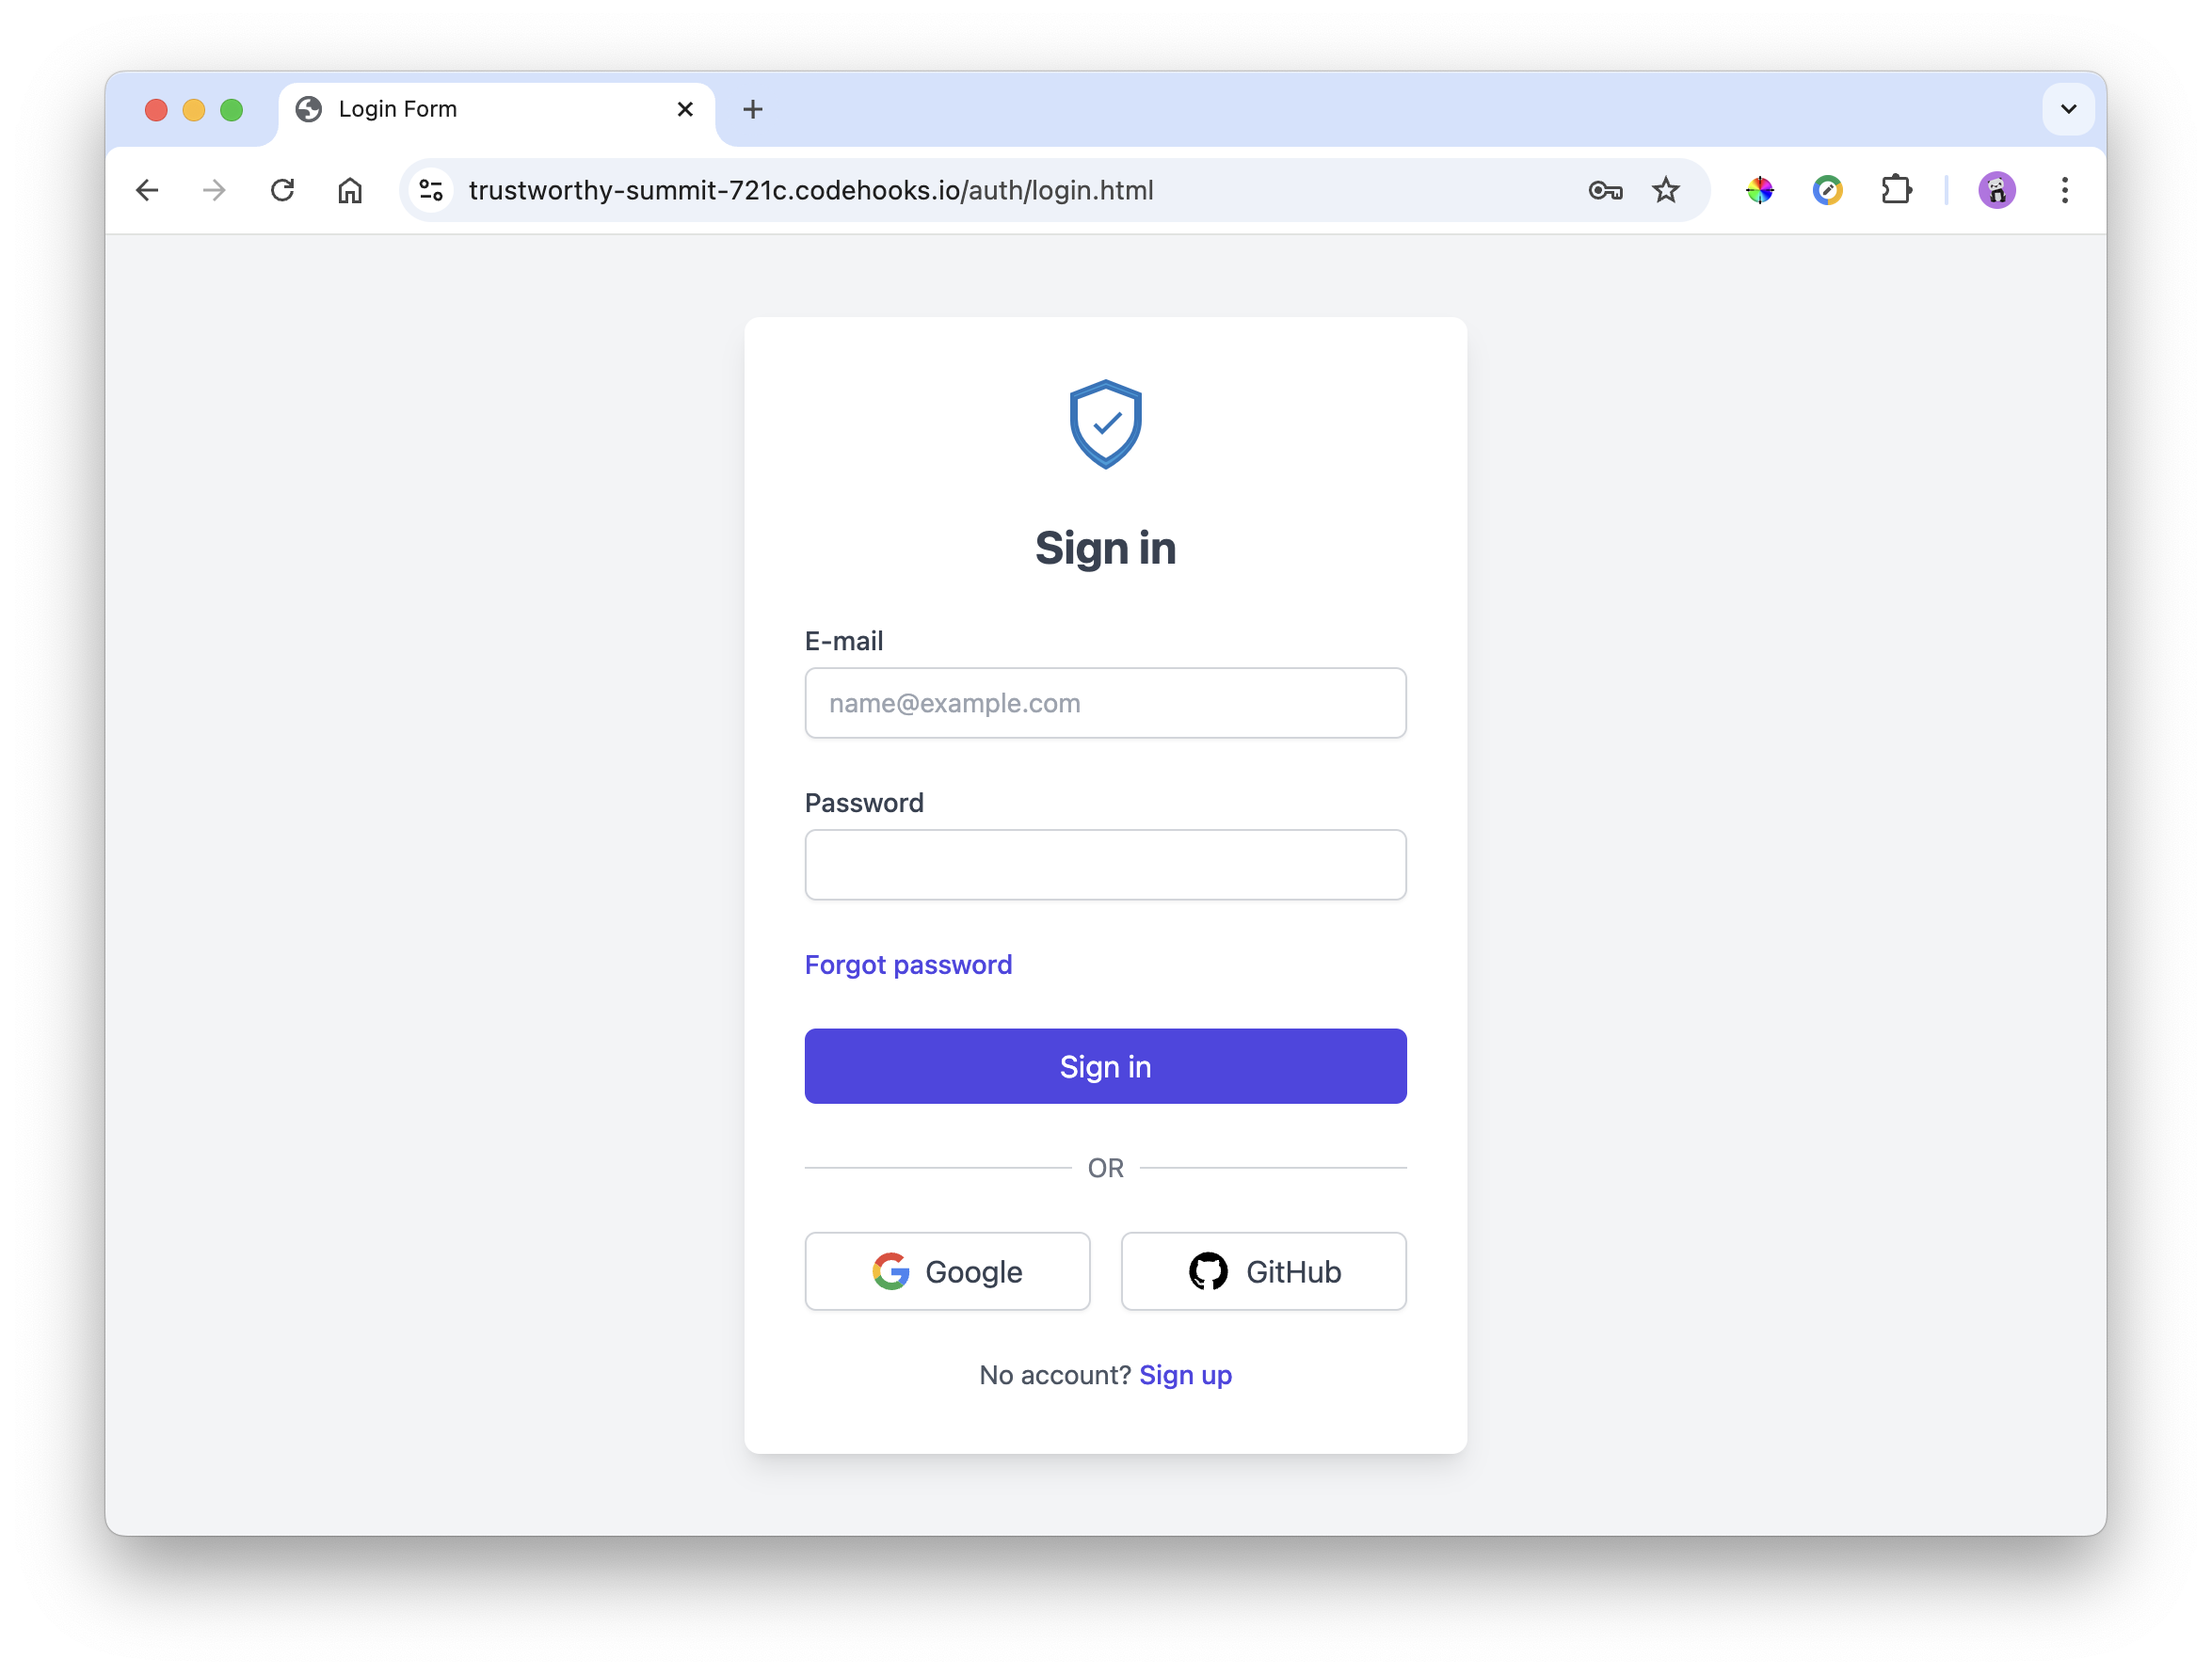
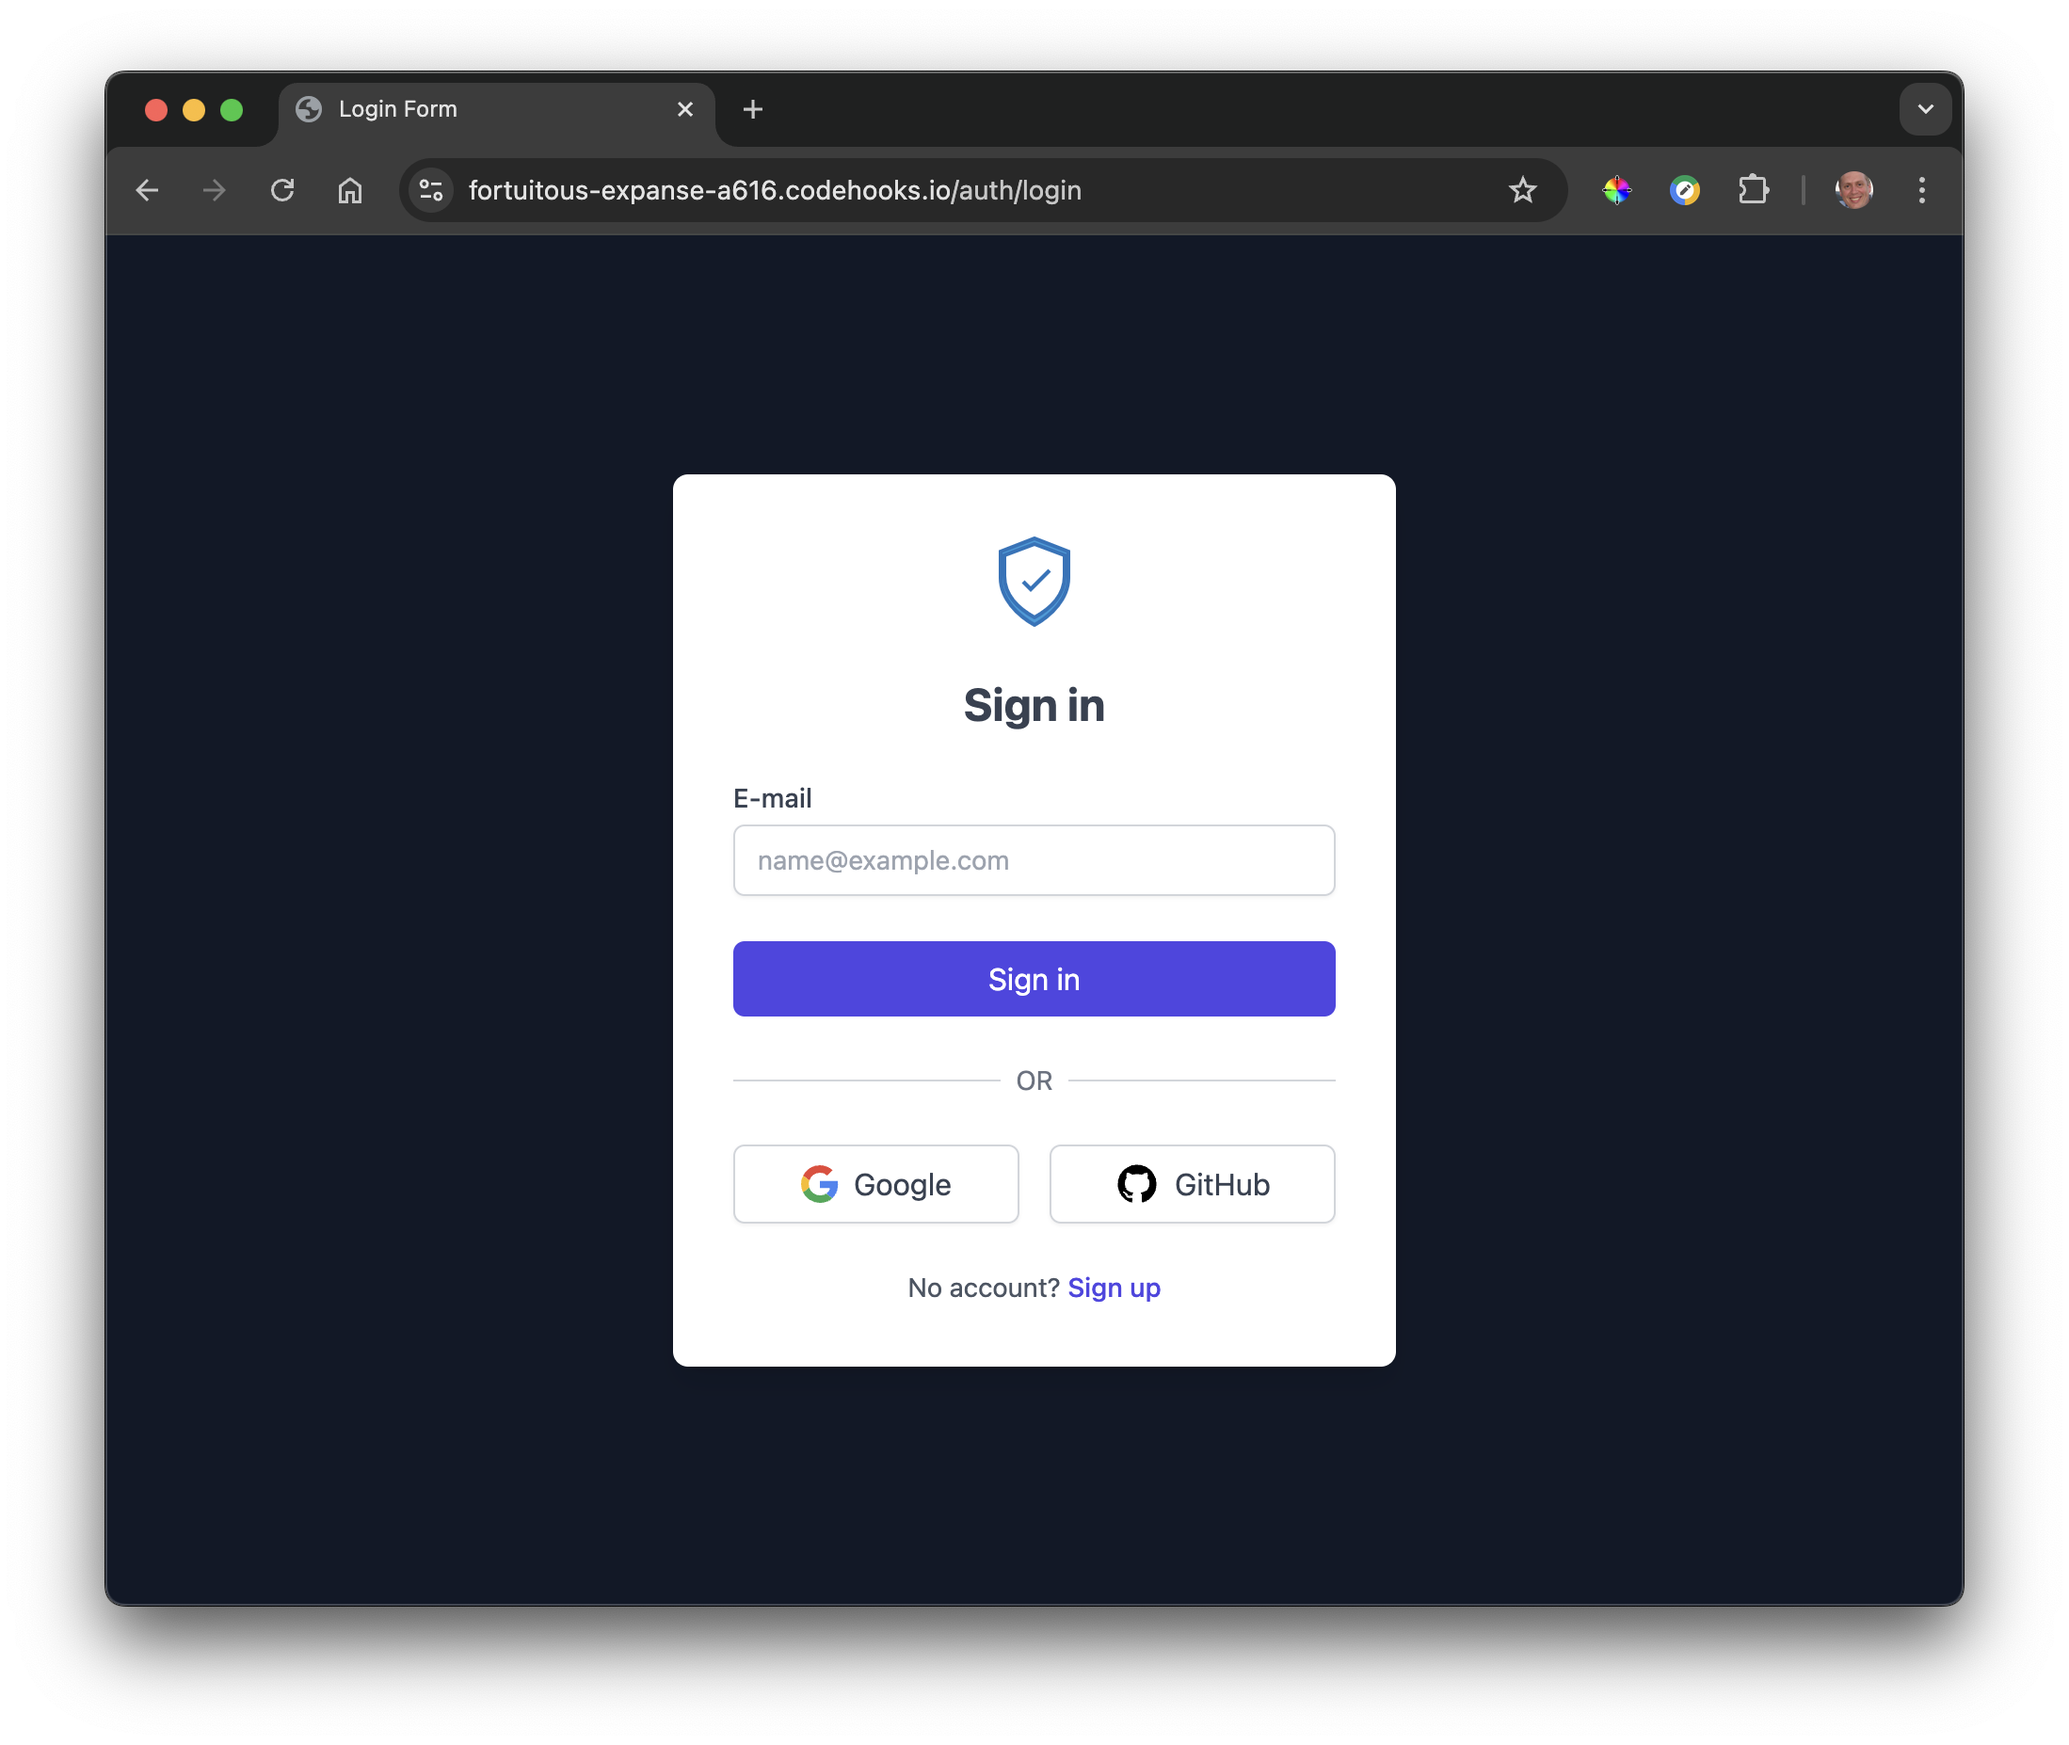
screen shots otp

diff --git a/README.md b/README.md
@@ -10,7 +10,7 @@ However, the codehooks-auth library aims to provide a simple and easy to use alt
 ## Features
 
 - Easy integration with Codehooks.io apps
-- Support for password-based authentication
+- Support for one time password authentication
 - OAuth support (Google and Github)
 - JWT-based access and refresh tokens
 - Customizable success and failure redirects
@@ -64,6 +64,12 @@ const settings = {
     CLIENT_ID: process.env.GITHUB_CLIENT_ID, // TODO: get this from github
     CLIENT_SECRET: process.env.GITHUB_CLIENT_SECRET, // TODO: get this from github
     REDIRECT_URI: 'https://{YOUR_APP_URL}.codehooks.io/auth/oauthcallback/github' // TODO: change this to your app url, add the callback url you set in github
+  },
+  email: {
+    MAILGUN_APIKEY: process.env.MAILGUN_APIKEY, // TODO: get this from mailgun
+    MAILGUN_DOMAIN: process.env.MAILGUN_DOMAIN, // TODO: get this from mailgun
+    MAILGUN_FROM_EMAIL: process.env.MAILGUN_FROM_EMAIL, // TODO: set this to your email
+    MAILGUN_FROM_NAME: process.env.MAILGUN_FROM_NAME // TODO: set this to your name
   }
 }
 // setup auth settings
@@ -92,6 +98,10 @@ Client web apps can use the codehooks-auth package to login and signup. To authe
 The screenshot below shows the lock screen presented to the users.
 
 ![lock-screen](./examples/images/auth-lock-screen.png)
+
+The screenshot below shows the one time password screen presented to the users.
+
+![lock-screen](./examples/images/otp-screen.png)
 
 If your app `redirectSuccessUrl` is `https://example.com/dashboard.html` then after login you will be redirected to this URL. And, a httpOnly cookie will be set with the access_token and a refresh_token. This makes it very simple to call your Codehooks.io API.
 
@@ -255,6 +265,24 @@ The `settings` object allows you to configure various aspects of the authenticat
     CLIENT_ID: process.env.GITHUB_CLIENT_ID,
     CLIENT_SECRET: process.env.GITHUB_CLIENT_SECRET,
     REDIRECT_URI: 'https://{YOUR_APP_URL}.codehooks.io/auth/oauthcallback/github'
+  }
+  ```
+
+### email
+- Type: `object`
+- Description: Configuration for email sending. 
+- Properties:
+  - `MAILGUN_APIKEY`: Mailgun API key.
+  - `MAILGUN_DOMAIN`: Mailgun domain.
+  - `MAILGUN_FROM_EMAIL`: Email address to send from.
+  - `MAILGUN_FROM_NAME`: Name to send from. 
+- Example:
+  ```javascript
+  {
+    MAILGUN_APIKEY: process.env.MAILGUN_APIKEY,
+    MAILGUN_DOMAIN: process.env.MAILGUN_DOMAIN,
+    MAILGUN_FROM_EMAIL: 'jane@example.com',
+    MAILGUN_FROM_NAME: 'Jane Doe'
   }
   ```
 
